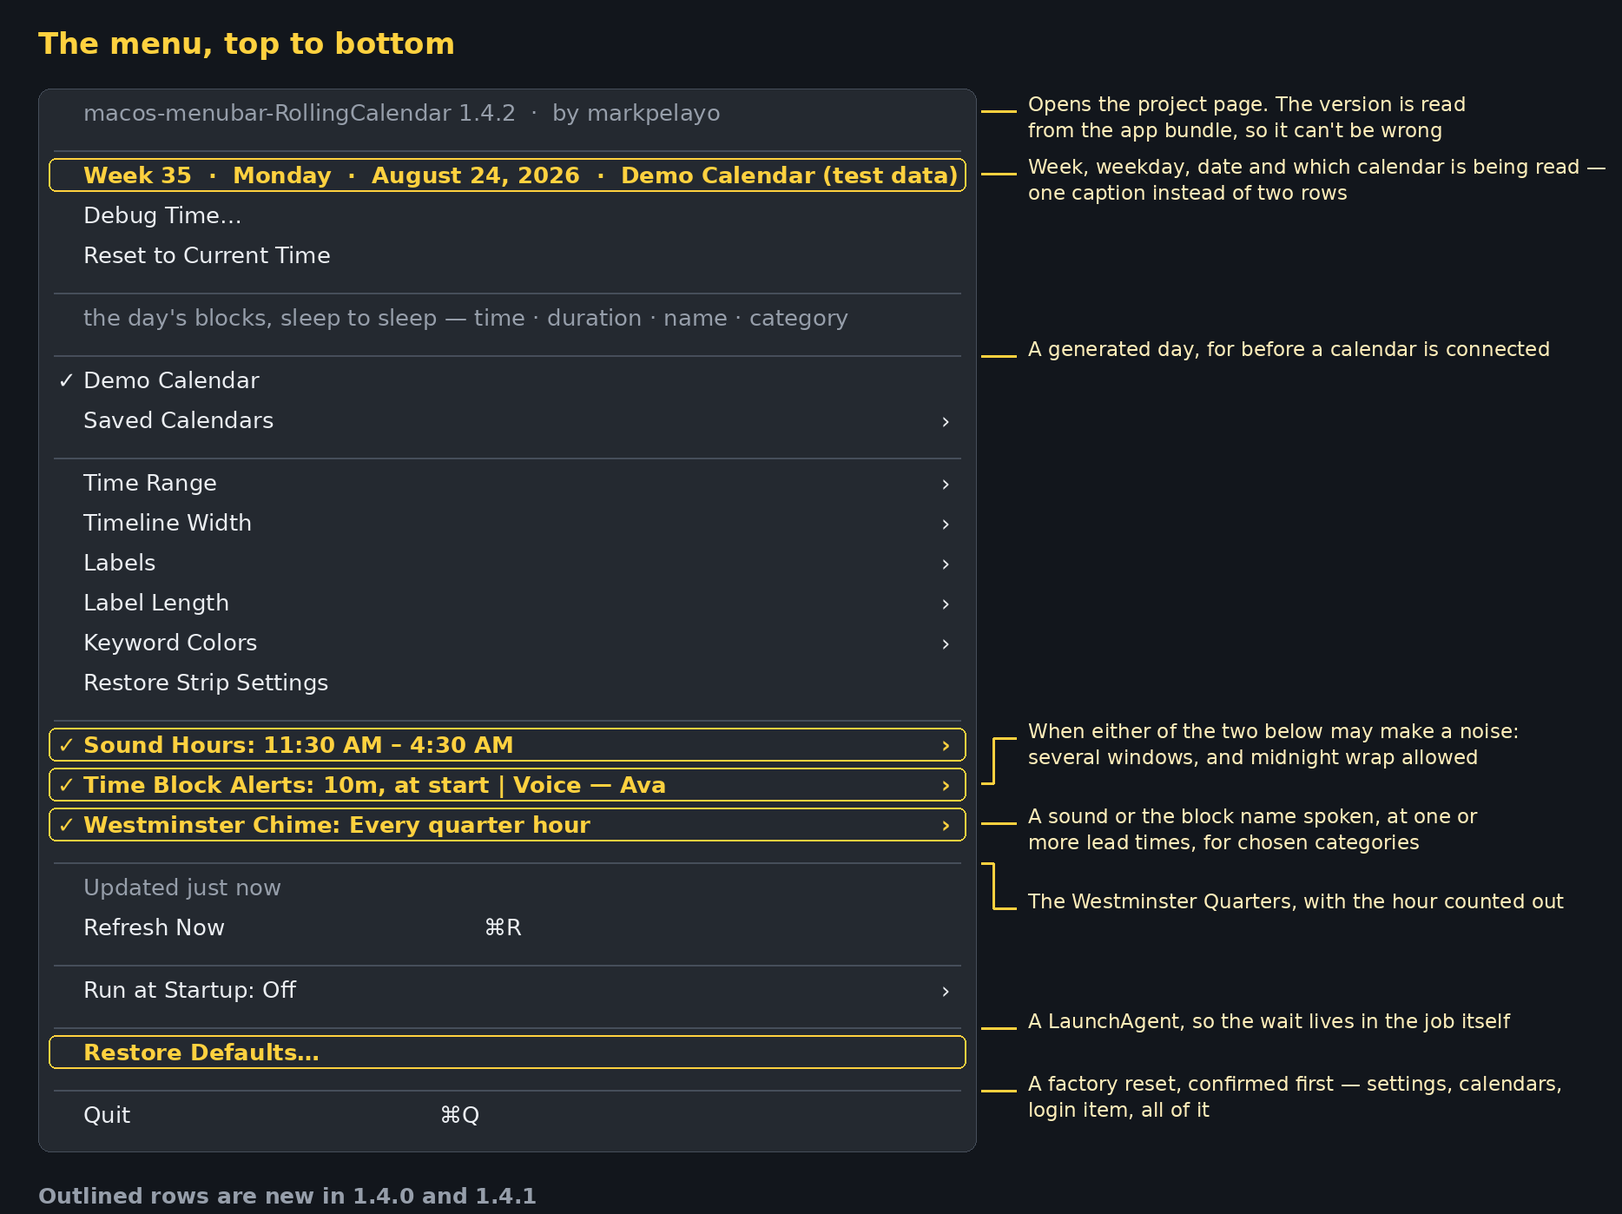
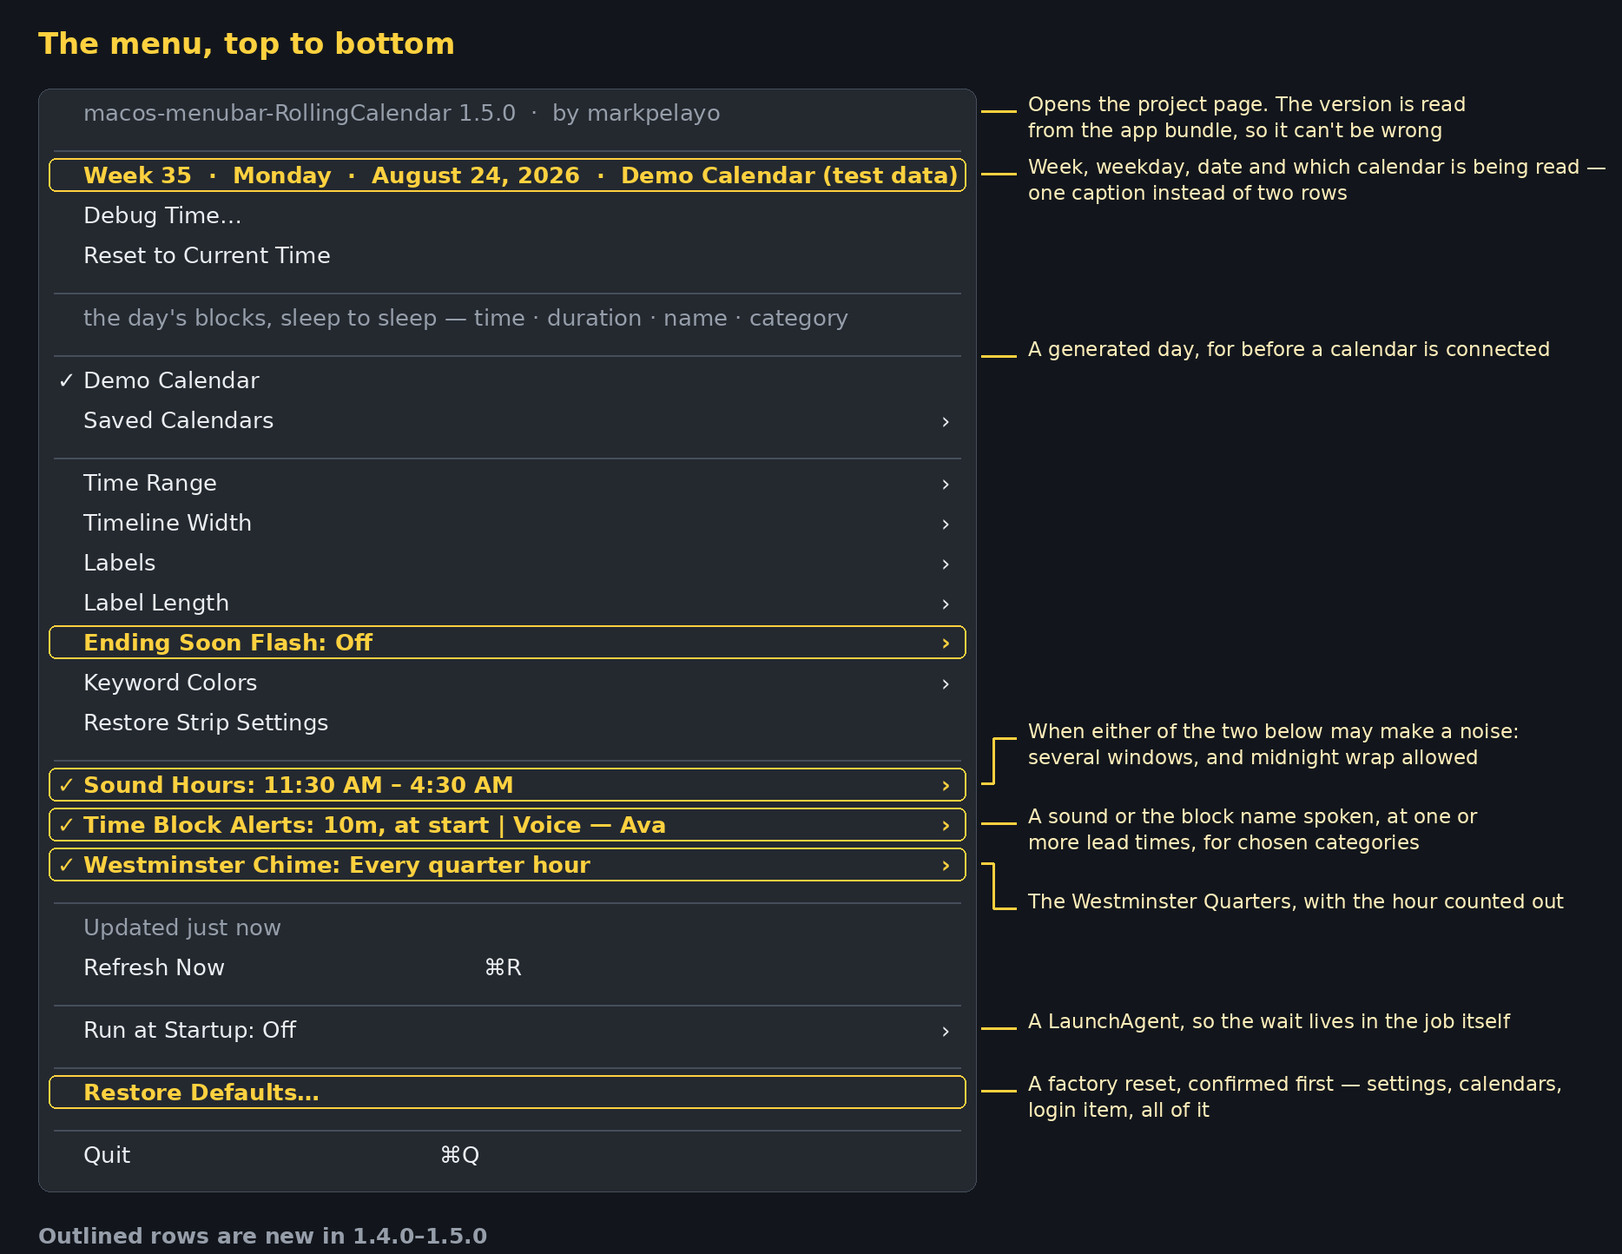
1.5.0 — Ending Soon Flash: the current block's name blinks red on its way out
Below Label Length, off by default, armed by choosing how early it starts:
1, 2, 5 or 10 minutes before the end, with Off inside the submenu rather than
beside it, the way every other staged setting here works. Something blinking in
the menu bar is a demand for attention, and one you didn't ask for is a
distraction — so it is a thing you switch on, not a thing you switch off.

The last two minutes still belong to the steady red-and-bold warning: an early
nudge that hardens into a solid red is a clearer story than a light that blinks
all the way to the end, and it means the weight never changes mid-block, so the
label can't jitter and the status item can't resize under the blink.

No second timer. The blink phase is the parity of the second the strip already
reads to recompose its labels, so it costs nothing while off and nothing extra
while on. The stored threshold is clamped and checked for finiteness before it
reaches Int(_:), which traps.

Restore Strip Settings switches it off again, and both resets grey out with it.

diff --git a/Sources/main.swift b/Sources/main.swift
@@ -172,6 +172,7 @@ enum Config {
         abs(windowMinutes - defaultWindowMinutes) < 0.01
             && abs(Double(timelineWidth) - defaultTimelineWidth) < 0.01
             && abs(Double(maxLabelWidth) - defaultMaxLabelWidth) < 0.01
+            && !isFlashing
             && labelKeys.allSatisfy { flag($0) }
     }
 
@@ -228,6 +229,7 @@ enum Config {
         d.removeObject(forKey: "windowMinutes")
         d.removeObject(forKey: "timelineWidth")
         d.removeObject(forKey: "maxLabelWidth")
+        d.removeObject(forKey: "endingFlashSeconds")
         for key in labelKeys { d.removeObject(forKey: key) }
     }
 
@@ -258,6 +260,42 @@ enum Config {
     static var urgentSeconds: TimeInterval {
         let v = UserDefaults.standard.double(forKey: "urgentSeconds")
         return v > 0 ? v : 120
+    }
+
+    // MARK: Ending Soon Flash
+
+    /// How long before a block ends the left label starts flashing, or zero for
+    /// never — which is the default.
+    ///
+    /// Deliberately separate from `urgentSeconds`. Steady red says "this is
+    /// nearly over" and costs nothing to ignore; a flash is a demand for
+    /// attention, and something that demands attention in your menu bar all day
+    /// should be a thing you asked for rather than a thing you have to find the
+    /// switch for.
+    /// Total for any stored value: a nonsense number written by hand with
+    /// `defaults write` must not reach `Int(_:)`, which traps on anything it
+    /// can't represent — and the menu title does exactly that conversion.
+    static var flashSeconds: TimeInterval {
+        let v = UserDefaults.standard.double(forKey: "endingFlashSeconds")
+        return v.isFinite ? min(max(v, 0), 3600) : 0
+    }
+
+    static var isFlashing: Bool { flashSeconds > 0 }
+
+    static func setFlashSeconds(_ seconds: Double) {
+        UserDefaults.standard.set(max(seconds, 0), forKey: "endingFlashSeconds")
+    }
+
+    /// One minute is "I need to wrap up"; ten is "start finding a stopping
+    /// point". Longer than that and the flash is on for most of a short block,
+    /// which stops it meaning anything.
+    static let flashChoices: [Double] = [60, 120, 300, 600]
+
+    /// The whole setting, readable from the main menu without opening it.
+    static var flashMenuTitle: String {
+        guard isFlashing else { return "Ending Soon Flash: Off" }
+        let minutes = Int((flashSeconds / 60).rounded())
+        return "Ending Soon Flash: \(minutes) min before the end"
     }
 
     /// The block that marks the start of your day in the dropdown. Everything
@@ -843,6 +881,12 @@ final class AppDelegate: NSObject, NSApplicationDelegate, NSMenuDelegate {
         length.submenu = labelLengthMenu()
         menu.addItem(length)
 
+        let flash = NSMenuItem(title: Config.flashMenuTitle, action: nil, keyEquivalent: "")
+        flash.submenu = endingFlashMenu()
+        flash.state = Config.isFlashing ? .on : .off
+        flash.toolTip = "Flash the name of the block you're in, in red, as it nears its end"
+        menu.addItem(flash)
+
         let keywords = NSMenuItem(title: "Keyword Colors", action: nil, keyEquivalent: "")
         keywords.submenu = keywordColoursMenu()
         menu.addItem(keywords)
@@ -850,7 +894,7 @@ final class AppDelegate: NSObject, NSApplicationDelegate, NSMenuDelegate {
         let restore = add("Restore Strip Settings", #selector(restoreDefaults), to: menu)
         restore.isEnabled = !Config.isAppearanceDefault
         restore.toolTip = restore.isEnabled
-            ? "The strip only: ± 1 hour, a 250 pt timeline, 360 pt labels, all labels on"
+            ? "The strip only: ± 1 hour, a 250 pt timeline, 360 pt labels, all labels on, no flash"
             : "Already at the default settings"
 
         // --- Sounds --- their own block, gated by one schedule
@@ -1601,6 +1645,45 @@ final class AppDelegate: NSObject, NSApplicationDelegate, NSMenuDelegate {
         return sub
     }
 
+    /// When the name of the block you're in starts flashing red, on its way out.
+    ///
+    /// Off lives inside the submenu rather than beside it, the way every other
+    /// staged setting in this menu works: one control, one decision, and the
+    /// answer readable from the parent row without opening anything.
+    private func endingFlashMenu() -> NSMenu {
+        let sub = NSMenu()
+        sub.autoenablesItems = false
+
+        let off = NSMenuItem(title: "Off", action: #selector(chooseEndingFlash(_:)),
+                             keyEquivalent: "")
+        off.target = self
+        off.representedObject = 0.0
+        off.state = Config.isFlashing ? .off : .on
+        off.toolTip = "The label still turns red for the last two minutes; it just doesn't flash"
+        sub.addItem(off)
+
+        sub.addItem(.separator())
+
+        for seconds in Config.flashChoices {
+            let minutes = Int((seconds / 60).rounded())
+            let title = minutes == 1 ? "1 minute before the end"
+                                     : "\(minutes) minutes before the end"
+            let item = NSMenuItem(title: title, action: #selector(chooseEndingFlash(_:)),
+                                  keyEquivalent: "")
+            item.target = self
+            item.representedObject = seconds
+            item.state = abs(Config.flashSeconds - seconds) < 0.01 ? .on : .off
+            sub.addItem(item)
+        }
+
+        sub.addItem(.separator())
+        let note = NSMenuItem(title: "The name blinks red once a second — nothing else changes",
+                              action: nil, keyEquivalent: "")
+        note.isEnabled = false
+        sub.addItem(note)
+        return sub
+    }
+
     /// How long an event name may get before it's shortened with an ellipsis.
     /// Each option is annotated with the character count it works out to, since
     /// points aren't much use for judging that by eye.
@@ -2292,6 +2375,12 @@ final class AppDelegate: NSObject, NSApplicationDelegate, NSMenuDelegate {
     @objc private func resetDebugTime() {
         Config.clearDebugTime()
         reloadAfterSourceChange()
+    }
+
+    @objc private func chooseEndingFlash(_ sender: NSMenuItem) {
+        guard let seconds = sender.representedObject as? Double else { return }
+        Config.setFlashSeconds(seconds)
+        redrawNow()
     }
 
     @objc private func chooseLabelLength(_ sender: NSMenuItem) {

diff --git a/Sources/TimelineView.swift b/Sources/TimelineView.swift
@@ -33,6 +33,17 @@ final class TimelineView: NSView {
     /// How long before a block ends the left label starts shouting.
     static var urgentThreshold: TimeInterval { Config.urgentSeconds }
 
+    /// Which half of the blink we're in.
+    ///
+    /// Read from the clock rather than kept in a timer of its own: the strip
+    /// already recomposes its labels once a second, so the phase changes with
+    /// them for nothing — no second timer to wake the app, and no drift.
+    private static func flashIsLit(_ now: Date) -> Bool {
+        let raw = now.timeIntervalSince1970
+        let stamp = raw.isFinite ? min(max(raw, -1e12), 1e12) : 0
+        return Int(stamp.rounded(.down)) % 2 == 0
+    }
+
     override var isFlipped: Bool { false }
 
     /// Let clicks fall through to the status bar button so the menu still opens.
@@ -99,6 +110,7 @@ final class TimelineView: NSView {
         hasher.combine(Config.showNextDuration)
         hasher.combine(Config.isSimulating)
         hasher.combine(Config.urgentSeconds)
+        hasher.combine(Config.flashSeconds)
         return hasher.finalize()
     }
 
@@ -138,8 +150,21 @@ final class TimelineView: NSView {
         if let current {
             let remaining = current.end.timeIntervalSince(now)
             // Red and bold for the last two minutes — colour alone was easy to
-            // miss at a glance.
+            // miss at a glance. Ending Soon Flash, if it's on, starts earlier
+            // and blinks; the two share the same red rather than inventing a
+            // second one.
             let urgent = remaining <= Self.urgentThreshold
+            // Off by default: a flashing menu bar is a demand for attention, and
+            // one you didn't ask for is just a distraction. When it is on, the
+            // name alternates between red and its usual colour each second —
+            // the weight doesn't change with it, so the label can't jitter.
+            // The last two minutes belong to the steady red: an early nudge
+            // that hardens into a solid warning is a clearer story than a light
+            // that blinks all the way to the end, and it means the weight never
+            // changes mid-block either.
+            let flashing = Config.isFlashing && !urgent && remaining <= Config.flashSeconds
+            let shouting = urgent || flashing
+            let lit = !flashing || Self.flashIsLit(now)
             // 🔴 means "two things want you right now". It counts only what is
             // genuinely concurrent, so a reminder that fires and finishes in the
             // same instant raises the flag briefly and then lets it go, rather
@@ -150,7 +175,7 @@ final class TimelineView: NSView {
                 Segment(text: clash > 1 ? "🔴(\(clash))" : ""),
                 Segment(text: Config.showNowName ? current.title : "", truncatable: true),
                 Segment(text: Config.showNowTimeLeft ? "(\(Self.format(remaining)))" : "")
-            ], cap: cap, color: urgent ? .systemRed : normalInk,
+            ], cap: cap, color: shouting && lit ? .systemRed : normalInk,
                baseBold: urgent, alignment: .right)
         } else if Config.isSimulating {
             // Nothing running, but still say we're pretending.

diff --git a/README.md b/README.md
@@ -2,11 +2,11 @@
 
 [![License: MIT](https://img.shields.io/badge/license-MIT-blue.svg)](LICENSE)
 [![Platform: macOS 13+](https://img.shields.io/badge/platform-macOS%2013%2B-lightgrey)](#quick-start)
-[![Release: v1.4.2](https://img.shields.io/badge/release-v1.4.2-brightgreen)](https://github.com/markpelayo/macos-menubar-RollingCalendar/releases/latest)
+[![Release: v1.5.0](https://img.shields.io/badge/release-v1.5.0-brightgreen)](https://github.com/markpelayo/macos-menubar-RollingCalendar/releases/latest)
 
 A macOS menu bar app that draws today's calendar as a horizontal timeline scrolling past a fixed "now" marker. Instead of asking *what time is my next thing*, you glance up and see where you are.
 
-It's in daily use, and [v1.4.2](CHANGELOG.md) is the current release. What it deliberately doesn't do is listed under [Known limitations](#known-limitations).
+It's in daily use, and [v1.5.0](CHANGELOG.md) is the current release. What it deliberately doesn't do is listed under [Known limitations](#known-limitations).
 
 ## The UI
 
@@ -14,7 +14,7 @@ It's in daily use, and [v1.4.2](CHANGELOG.md) is the current release. What it de
 
 Time flows right-to-left. The red line is fixed at the centre and always marks now, so blocks drift leftward as the day passes. There are no tick marks or gridlines — just past, now and future.
 
-- **Left label** — the block you're in and how much of it is left, e.g. `Deep Work (5m)`. It turns **red and bold** for the final two minutes, so the ending registers peripherally rather than needing to be read (`urgentSeconds` changes the threshold)
+- **Left label** — the block you're in and how much of it is left, e.g. `Deep Work (5m)`. It turns **red and bold** for the final two minutes, so the ending registers peripherally rather than needing to be read (`urgentSeconds` changes the threshold), and can be set to **flash** from further out — see [Ending Soon Flash](#ending-soon-flash)
 - **Right label** — what's next and how long that block runs for, e.g. `(16h) Out of office`
 - **Labels size themselves to the name** — the menu bar item grows and shrinks as event names change, up to `maxLabelWidth` (360 pt by default, about 47 characters). Past that the *name* is shortened with an ellipsis; the countdown and the warning badge are never cut, since a truncated countdown would be useless. The capsules carry no text, as it would only repeat the labels
 - **Coloured capsules** — your events in their real colours, outlined so neighbours stay distinct, separated by a 1 pt gap. Anything with no colour and no matching keyword is neutral grey, so unclassified events are obvious
@@ -28,7 +28,7 @@ The strip is deliberately small — it lives in the menu bar and is meant to be 
 Clicking it opens the day's blocks, and everything else lives in that menu. The first row names the app, the version it's actually running — read from the bundle, so it can't disagree with the binary — and opens the [project page](https://github.com/markpelayo/macos-menubar-RollingCalendar):
 
 ```
-macos-menubar-RollingCalendar 1.4.2  ·  by markpelayo
+macos-menubar-RollingCalendar 1.5.0  ·  by markpelayo
 ```
 
 ![A map of the whole menu, top to bottom](docs/ui-menu-map.png)
@@ -162,6 +162,28 @@ defaults write io.github.macos-menubar-rollingcalendar dayAnchorKeyword "wake"
 ```
 
 A date separator marks where one day becomes the next, since otherwise today's 4:30 AM and tomorrow's look identical. Long cycles are capped at 60 rows with an "… and N more" line.
+
+## Ending Soon Flash
+
+Steady red says *this is nearly over*. A flash says *stop now* — so it's **off by default**, and you choose how early it starts:
+
+```
+Ending Soon Flash: Off ▸
+                        Off                        ✓
+                        ─────────────────────────
+                        1 minute before the end
+                        2 minutes before the end
+                        5 minutes before the end
+                        10 minutes before the end
+```
+
+The name of the block you're in alternates between red and its usual colour **once a second** for the last minute, two, five or ten. Only the colour changes — the weight stays put, so the label can't jitter and the strip can't resize under the blink.
+
+It doesn't replace the steady warning: the label still goes red and bold for the final two minutes whatever this is set to, and both use the same red rather than inventing a second one. Set the flash to 5 or 10 minutes and you get an early nudge that becomes a solid red as the block actually runs out.
+
+**Why it's off unless you ask.** Something blinking in your menu bar is a demand for attention, and a demand you didn't ask for is just a distraction — for a strip designed to be glanceable, that's the wrong default. It's a strip setting like the others, so **Restore Strip Settings** switches it off again.
+
+There's no extra timer behind it: the strip already recomposes its labels once a second, so the blink rides that tick and costs nothing while it's off.
 
 ## Keyword colors
 
@@ -493,8 +515,9 @@ Most of it is in the menu — click the strip:
 | **Timeline Width ▸** | How much menu bar the timeline takes: 100 pt to 450 pt in 50 pt steps (default 250 pt) |
 | **Labels ▸** | Four toggles: block name and time left on the left, block name and duration on the right (all on by default) |
 | **Label Length ▸** | How long an event name may get before it's shortened: 100 pt to 480 pt, each annotated with the character count it works out to (default 360 pt, about 47 characters) |
+| **Ending Soon Flash ▸** | Flash the current block's name red as it nears its end: off, or 1 / 2 / 5 / 10 minutes before (**off** by default) |
 | **Keyword Colors ▸** | Import a CSV of keyword → colour rules, load the bundled sample, save it out to edit, or clear it |
-| **Restore Strip Settings** | The strip only: back to ±1 hour, 250 pt timeline, 360 pt labels, all labels on. Greyed out when nothing has been changed |
+| **Restore Strip Settings** | The strip only: back to ±1 hour, 250 pt timeline, 360 pt labels, all labels on, no flash. Greyed out when nothing has been changed |
 | **Sound Hours ▸** | The hours in which the alerts and the chime may sound — several windows, midnight wrap allowed (default 11:30 AM – 4:30 AM) |
 | **Time Block Alerts ▸** | A sound or the block name spoken, as a block starts or at one or more lead times before it, for the categories you choose (**off** by default) |
 | **Westminster Chime ▸** | The hour, or every quarter, on synthesised bells — with the hour counted out (**off** by default) |
@@ -504,7 +527,7 @@ Most of it is in the menu — click the strip:
 | **Restore Defaults…** | A factory reset, confirmed first: every setting forgotten, saved calendars removed, back to Demo Calendar. Greyed out when everything already is at its defaults |
 | **Quit (⌘Q)** | Leaves nothing behind: no helper, and no login item unless you added one |
 
-The first row of the menu — `macos-menubar-RollingCalendar 1.4.2 · by markpelayo` — opens the [project page](https://github.com/markpelayo/macos-menubar-RollingCalendar). The version is read from the app bundle, so it always names the build you're running.
+The first row of the menu — `macos-menubar-RollingCalendar 1.5.0 · by markpelayo` — opens the [project page](https://github.com/markpelayo/macos-menubar-RollingCalendar). The version is read from the app bundle, so it always names the build you're running.
 
 The two are independent: **range** decides how much time you see, **width** decides how much space it gets. Together they set how big a block looks — at the default ±1 hour across 250 pt, a 15-minute block is about 31 pt wide; narrow the range to ±15 minutes at the same width and it grows to 125 pt. Each width option's tooltip does that arithmetic for you, and the note at the foot of the menu shows the current result.
 
@@ -624,13 +647,13 @@ Issues and pull requests are welcome. Keep it dependency-free and keep the idle 
 ## Releases
 
 Versions are tagged and described in [CHANGELOG.md](CHANGELOG.md), which is the only copy of the
-notes — `./release-notes.sh 1.4.2` prints one version's section for a release body. The same notes appear on the
+notes — `./release-notes.sh 1.5.0` prints one version's section for a release body. The same notes appear on the
 [releases page](https://github.com/markpelayo/macos-menubar-RollingCalendar/releases). Each release
 carries source only — no app bundle, for the notarisation reason above — so installing a given
 version means checking out its tag and running `./build.sh`:
 
 ```bash
-git checkout v1.4.2
+git checkout v1.5.0
 ./build.sh
 ```
 

diff --git a/CHANGELOG.md b/CHANGELOG.md
@@ -4,6 +4,27 @@ All notable changes to this project are documented here. The format follows
 [Keep a Changelog](https://keepachangelog.com/en/1.1.0/), and this project adheres to
 [Semantic Versioning](https://semver.org/spec/v2.0.0.html).
 
+## [1.5.0] — 2026-08-25
+
+### Added
+
+- **Ending Soon Flash**, below Label Length: the name of the block you're in blinks red once a
+  second as it nears its end. **Off by default** — something blinking in the menu bar is a demand
+  for attention, and one you didn't ask for is a distraction — and armed by choosing how early it
+  starts: 1, 2, 5 or 10 minutes before the end, with **Off** inside the submenu rather than beside
+  it, the way every other staged setting here works.
+- It doesn't replace the steady warning. The label still turns red and bold for the final two
+  minutes whatever the flash is set to, and both use the same red rather than inventing a second
+  one: set the flash to five or ten minutes and an early nudge hardens into a solid red as the
+  block actually runs out.
+- Only the colour alternates — the weight is held constant while the flash is on, so the label
+  can't jitter and the menu bar item can't resize under the blink.
+- There is **no second timer**. The blink phase is read from the clock the strip already consults
+  once a second to recompose its labels, so it costs nothing while it's off and nothing extra while
+  it's on.
+- It's a strip setting like the others, so **Restore Strip Settings** switches it off again and
+  greys itself out when it's already off.
+
 ## [1.4.2] — 2026-08-25
 
 ### Changed
@@ -343,6 +364,8 @@ First public release.
 - Recurring events are handled for a common subset of RFC 5545 — `RRULE` with `FREQ`, `INTERVAL`,
   `COUNT`, `UNTIL`, `BYDAY`, plus `EXDATE` and `RECURRENCE-ID` overrides.
 
+[1.5.0]: https://github.com/markpelayo/macos-menubar-RollingCalendar/releases/tag/v1.5.0
+[1.4.2]: https://github.com/markpelayo/macos-menubar-RollingCalendar/releases/tag/v1.4.2
 [1.4.1]: https://github.com/markpelayo/macos-menubar-RollingCalendar/releases/tag/v1.4.1
 [1.4.0]: https://github.com/markpelayo/macos-menubar-RollingCalendar/releases/tag/v1.4.0
 [1.3.1]: https://github.com/markpelayo/macos-menubar-RollingCalendar/releases/tag/v1.3.1
